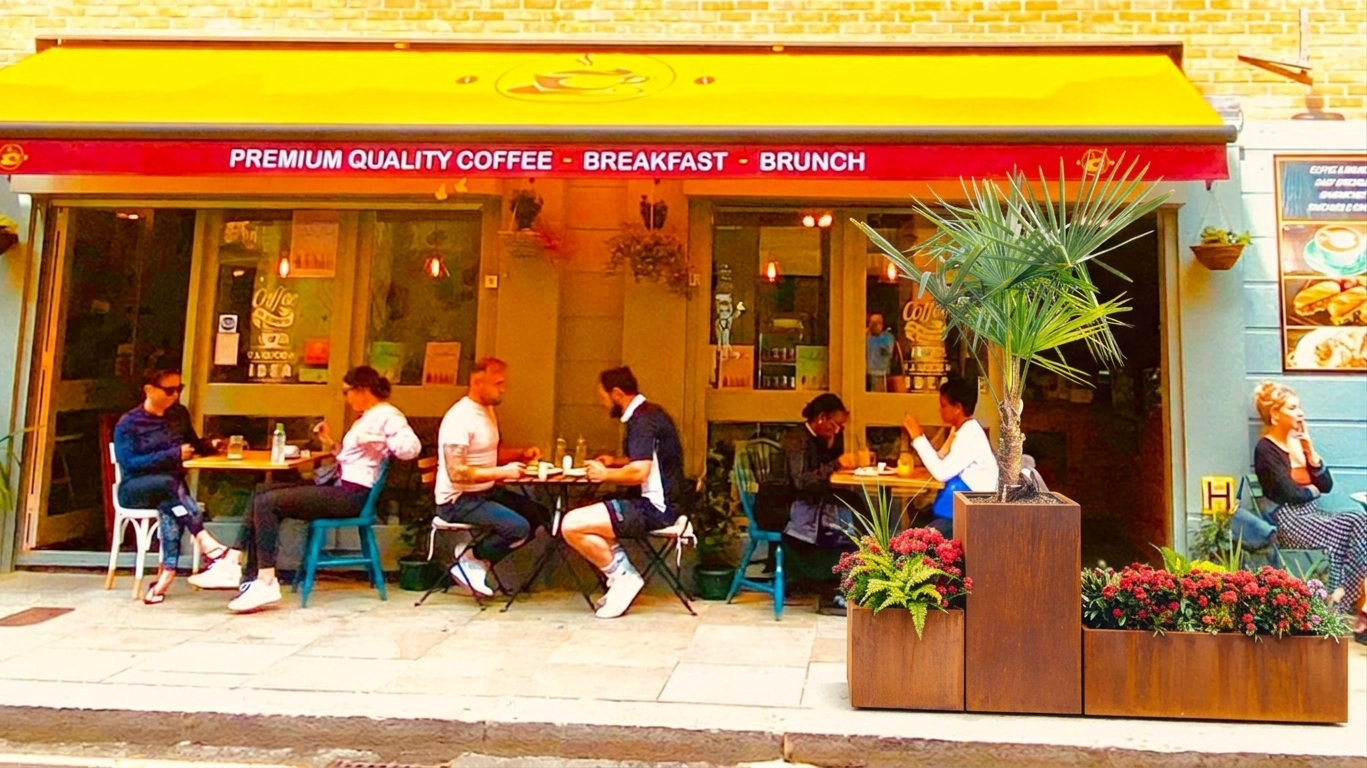
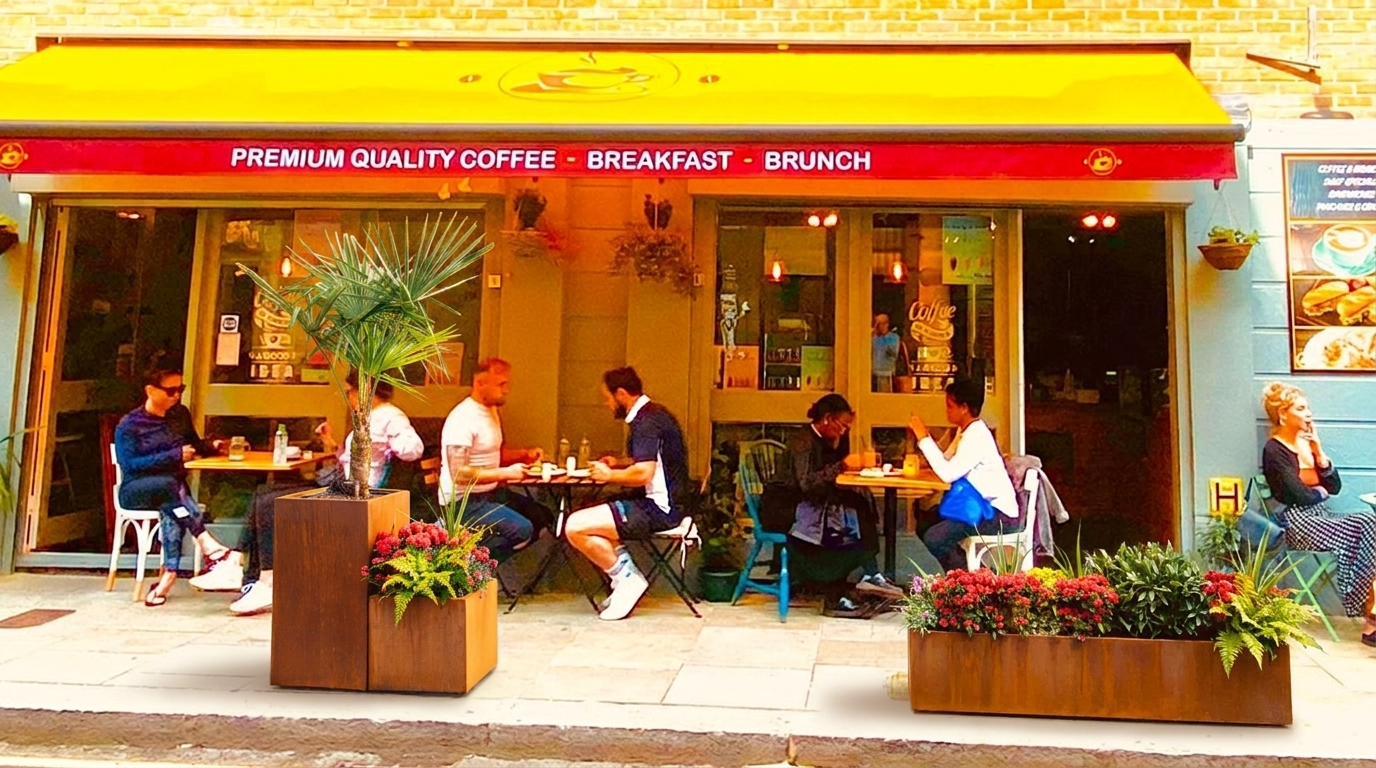
Compositing quality: Pro image model + aspect-ratio lock + strict fidelity
Addresses the brief's compositing bar (actual product, scale, perspective,
shadow/grounding, building unaltered):
- Switch to gemini-3-pro-image (Nano Banana Pro): preserves the reference's exact
  planter AND planting instead of drifting to a generic green mass.
- Pin output aspect ratio to the frontage (imageutil.nearestAspectRatio) so the
  model edits in place rather than re-cropping/re-rendering the scene -> building,
  signage and people stay as photographed.
- Prompt hardened for product fidelity, framing preservation and grounded contact
  shadows. Re-composited the committed three in place (all QA faithful/clear/
  unaltered). design.md updated.

diff --git a/pipeline/src/composite.ts b/pipeline/src/composite.ts
@@ -12,6 +12,7 @@ import path from 'node:path';
 import { composite as geminiComposite, fileToInline } from './gemini.js';
 import { qaComposite } from './qa.js';
 import { productById, productImage } from './products.js';
+import { nearestAspectRatio } from './imageutil.js';
 import type { CompositeQA, FrontageJudgement } from './types.js';
 
 export function buildPrompt(productId: string, judgement: FrontageJudgement): string {
@@ -19,11 +20,12 @@ export function buildPrompt(productId: string, judgement: FrontageJudgement): st
   const dims = Object.entries(p.dimensions_cm).map(([k, v]) => `${k.replace(/_/g, ' ')} ${v}cm`).join(', ');
   const placement = judgement.placementHint || 'to the side of the entrance, against the building frontage';
 
-  return `Photorealistic product placement for a sales preview. Edit IMAGE 1 only by ADDING the planter(s) shown in IMAGE 2. Change nothing else.
+  return `You are compositing a REAL product into a REAL photograph for a sales preview. The only change is to ADD the planter(s) from IMAGE 2 onto the pavement in IMAGE 1. Everything else stays exactly as photographed.
 
-IMAGE 1 = the real venue frontage. Treat the building, windows, door, signage, people, vehicles, road and pavement as FIXED – do not repaint, relight, move, remove or warp any of it.
+IMAGE 1 = the fixed background photograph. Keep its FRAMING, crop, camera angle and resolution identical – do NOT zoom, re-crop, recompose or re-render the scene. Treat the building, windows, door, signage TEXT, people, vehicles, road and pavement as FIXED pixels – do not repaint, relight, move, remove or warp any of them.
 
-IMAGE 2 = the client's ACTUAL product that must appear: "${p.name}" – ${p.form}, ${p.material}. Planting: ${p.planting}. Reproduce THIS exact planter and planting faithfully (same shape, material, colour, proportions and plants). Do NOT substitute a generic planter.
+IMAGE 2 = the client's ACTUAL product that must appear: "${p.name}" – ${p.form}, ${p.material}. Planting: ${p.planting}.
+PRODUCT FIDELITY (critical): reproduce the EXACT planter AND the EXACT planting from IMAGE 2 – same silhouette, material finish and colour, and the SAME plant species, leaf shapes, flower colours, arrangement and proportions. A viewer must recognise it as the identical catalogue item. Do NOT redesign the plants, swap species, or produce a generic "nice planter". If multiple units are shown, every unit is identical to IMAGE 2.
 
 HOW THIS PRODUCT IS STYLED (follow this exactly – it is how the client arranges it):
 ${p.placement_style}
@@ -41,9 +43,9 @@ Scale: the planter's real size is ${dims}. A standard doorway is about 2m tall a
 
 Perspective: match IMAGE 1's camera height, viewing angle and vanishing lines so the planter sits flat on the ground plane.
 
-Light & shadow: match the existing sun direction and softness in IMAGE 1. Add a believable soft contact shadow where the planter meets the ground so it is grounded, not floating or pasted. Respect occlusion (e.g. a passing pedestrian in front stays in front).
+Light & shadow (grounding is critical): match the existing sun direction and softness in IMAGE 1. Each planter's base must sit FLAT ON the pavement with a clear, soft-edged CONTACT SHADOW pooling on the ground away from the light – no gap, no floating, no pasted-cut-out look. Respect occlusion (a passing pedestrian in front stays in front).
 
-Output: a single photorealistic image, same framing and resolution as IMAGE 1, indistinguishable from a real photograph of that doorway with the product present.`;
+Output: a single photorealistic image at the SAME framing and aspect ratio as IMAGE 1, indistinguishable from a real photograph of that doorway with the product actually present.`;
 }
 
 export interface CompositeOutput {
@@ -67,13 +69,14 @@ export async function compositeVenue(
   const frontage = fileToInline(frontageBuf, 'image/jpeg');
   const products = [productImage(productId)];
   const basePrompt = buildPrompt(productId, judgement);
+  const aspectRatio = nearestAspectRatio(frontageBuf);
 
   const attempts: { buf: Buffer; qa: CompositeQA; path: string }[] = [];
   for (let i = 0; i < 2; i++) {
     const prompt = i === 0
       ? basePrompt
-      : `${basePrompt}\n\nThe previous attempt was rejected for: ${attempts[0].qa.reasons.join('; ')}. Fix these specifically while keeping the building unchanged.`;
-    const out = await geminiComposite(prompt, frontage, products);
+      : `${basePrompt}\n\nThe previous attempt was rejected for: ${attempts[0].qa.reasons.join('; ')}. Fix these specifically while keeping the building and framing unchanged.`;
+    const out = await geminiComposite(prompt, frontage, products, aspectRatio);
     if (!out) continue;
     const p = path.join(outDir, `composite_attempt${i + 1}.png`);
     await fs.mkdir(outDir, { recursive: true });

diff --git a/pipeline/src/imageutil.ts b/pipeline/src/imageutil.ts
@@ -1,0 +1,39 @@
+// Tiny pure-JS image helpers (no native deps – works locally and on Vercel).
+
+/** Read pixel dimensions from a PNG or JPEG buffer. */
+export function imageSize(buf: Buffer): { width: number; height: number } {
+  // PNG: IHDR at offset 16 (width/height big-endian uint32).
+  if (buf.length > 24 && buf[0] === 0x89 && buf[1] === 0x50) {
+    return { width: buf.readUInt32BE(16), height: buf.readUInt32BE(20) };
+  }
+  // JPEG: scan for a Start-Of-Frame marker.
+  if (buf[0] === 0xff && buf[1] === 0xd8) {
+    let o = 2;
+    while (o < buf.length) {
+      if (buf[o] !== 0xff) { o++; continue; }
+      const marker = buf[o + 1];
+      // SOF0..SOF15 except DHT(C4) RST(C8) JPG(CC)
+      if (marker >= 0xc0 && marker <= 0xcf && marker !== 0xc4 && marker !== 0xc8 && marker !== 0xcc) {
+        return { height: buf.readUInt16BE(o + 5), width: buf.readUInt16BE(o + 7) };
+      }
+      o += 2 + buf.readUInt16BE(o + 2); // skip this segment
+    }
+  }
+  return { width: 0, height: 0 };
+}
+
+const SUPPORTED: { label: string; r: number }[] = [
+  { label: '1:1', r: 1 }, { label: '2:3', r: 2 / 3 }, { label: '3:2', r: 3 / 2 },
+  { label: '3:4', r: 3 / 4 }, { label: '4:3', r: 4 / 3 }, { label: '4:5', r: 4 / 5 },
+  { label: '5:4', r: 5 / 4 }, { label: '9:16', r: 9 / 16 }, { label: '16:9', r: 16 / 9 },
+  { label: '21:9', r: 21 / 9 },
+];
+
+/** Nearest Gemini-supported aspect-ratio label for a given image (default 16:9). */
+export function nearestAspectRatio(buf: Buffer): string {
+  const { width, height } = imageSize(buf);
+  if (!width || !height) return '16:9';
+  const r = width / height;
+  return SUPPORTED.reduce((best, cur) =>
+    Math.abs(cur.r - r) < Math.abs(best.r - r) ? cur : best).label;
+}

diff --git a/pipeline/src/config.ts b/pipeline/src/config.ts
@@ -20,11 +20,11 @@ export const env = {
 };
 
 export const MODELS = {
-  // "Nano Banana" image line – reference-faithful image editing.
-  // NOTE: image generation needs a BILLED Gemini project (free tier limit = 0).
-  // Flash-image is the cheap/fast default; set GEMINI_IMAGE_MODEL=gemini-3-pro-image
-  // ("Nano Banana Pro") for max realism on final deliverables.
-  image: process.env.GEMINI_IMAGE_MODEL ?? 'gemini-3.1-flash-image',
+  // "Nano Banana Pro" image model – best reference fidelity, grounding and
+  // in-place editing. NOTE: image generation needs a BILLED Gemini project
+  // (free tier limit = 0). Set GEMINI_IMAGE_MODEL=gemini-3.1-flash-image for a
+  // cheaper/faster (lower-fidelity) run.
+  image: process.env.GEMINI_IMAGE_MODEL ?? 'gemini-3-pro-image',
   // Vision judge / QA – fast multimodal model, free tier is fine.
   vision: process.env.GEMINI_VISION_MODEL ?? 'gemini-flash-lite-latest',
 };

diff --git a/pipeline/src/gemini.ts b/pipeline/src/gemini.ts
@@ -91,6 +91,7 @@ export async function composite(
   prompt: string,
   frontage: InlineImage,
   products: InlineImage[],
+  aspectRatio?: string,
 ): Promise<Buffer | null> {
   const res = await withRetry(() => ai().models.generateContent({
     model: MODELS.image,
@@ -100,6 +101,9 @@ export async function composite(
         parts: [{ text: prompt }, imagePart(frontage), ...products.map(imagePart)],
       },
     ],
+    // Lock the output aspect ratio to the frontage so the model edits in place
+    // rather than re-cropping/recomposing the scene.
+    ...(aspectRatio ? { config: { imageConfig: { aspectRatio } } } : {}),
   }), 'composite');
   const parts = res.candidates?.[0]?.content?.parts ?? [];
   for (const p of parts) {

diff --git a/design.md b/design.md
@@ -45,7 +45,7 @@ can trigger the real pipeline on any London venue from the deployed page.
 | Venue discovery | Google Places API (New) | One call returns business type, rating, address, postcode and Place Photos — rich signals for the "good fit" filter. Free tier covers prototype volume. |
 | Frontage imagery | Google Street View Static API | Best coverage/quality in central London; exposes panorama geometry (location, heading, date) we need to frame the doorway. Same key as Places. |
 | Vision judge + QA | Gemini 2.5 Flash (`gemini-2.5-flash`) | Fast, cheap multimodal reasoning; returns structured JSON verdicts. |
-| Compositing | Gemini 2.5 Flash Image ("Nano Banana") | State-of-the-art at *reference-image-conditioned* editing — it can place **this** product rather than reinventing a generic planter, and edit in place without redrawing the building. |
+| Compositing | Gemini 3 Pro Image ("Nano Banana Pro"), aspect-ratio locked to the frontage | State-of-the-art at *reference-image-conditioned* editing — it reproduces **this** product's exact planter and planting rather than a generic approximation, grounds it with real contact shadows, and (with the aspect ratio pinned to the input) edits in place instead of re-cropping/redrawing the scene. The cheaper `gemini-3.1-flash-image` is a drop-in fallback via `GEMINI_IMAGE_MODEL`. |
 | Fallback imagery | Google Place Photos → Mapillary | Keyless/free Mapillary is the no-billing escape hatch; Place Photos are the venue's own imagery. |
 
 Alternatives considered and rejected: **OpenStreetMap Overpass** for discovery (no business
@@ -217,12 +217,23 @@ guarantees a bad composite.
 ### 4.1 Keeping the product faithful (not reinterpreted)
 
 The core decision: **the product is supplied to the model as a reference image, not as a text
-description.** Gemini 2.5 Flash Image receives the frontage *and* the actual product photo
+description.** Gemini 3 Pro Image receives the frontage *and* the actual product photo
 ([`products/`](products/)) together, with an instruction to **reproduce that exact planter and
-planting** and to **edit IMAGE 1 only by adding it** — not to redraw anything. Describing a
-planter in words ("a tall black cylinder with ferns") invites the model to invent a plausible
-but *different* object; conditioning on the photograph pins shape, material, colour and the
-specific plants. The QA gate (§5) then explicitly checks fidelity against that same reference.
+planting** (same silhouette, material, colour, plant species, leaf shapes, flower colours) and to
+**edit IMAGE 1 only by adding it** — not to redraw anything. Describing a planter in words ("a tall
+black cylinder with ferns") invites the model to invent a plausible but *different* object;
+conditioning on the photograph pins shape, material, colour and the specific plants. The QA gate
+(§5) then explicitly checks fidelity against that same reference.
+
+**Two things that moved fidelity from "plausible" to "the actual product":** (1) using the **Pro**
+image model rather than the flash tier — the flash model drifts the planting toward a generic green
+mass, the Pro model preserves the reference's specific foliage; (2) **pinning the output aspect ratio
+to the frontage** ([`imageutil.ts`](pipeline/src/imageutil.ts) `nearestAspectRatio`), which stops the
+model re-cropping/recomposing the scene — so the building, signage and people stay as photographed
+and only the planters are added. Each product's **arrangement grammar** (cluster of drums / tiered
+corner statement / side-by-side pair) is authored once from its reference photo in
+[`products.json`](products/products.json) `placement_style`, so the model styles it the way the
+client does rather than improvising.
 
 ### 4.2 Estimating real-world scale
 
